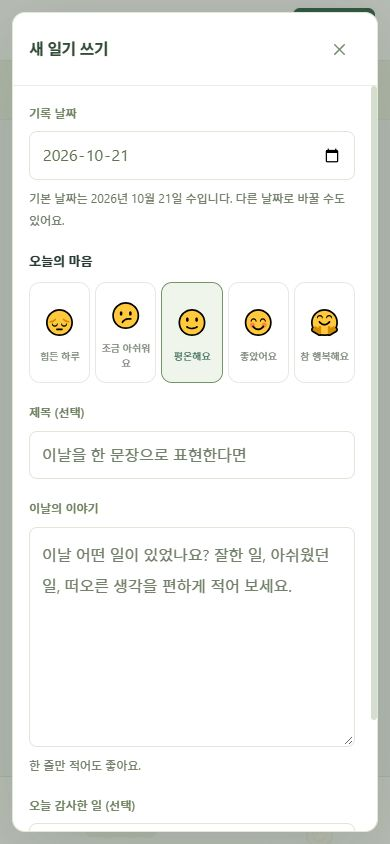
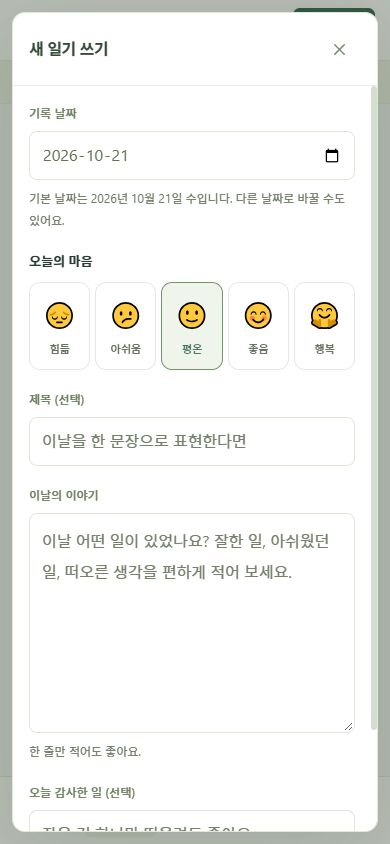
docs: finalize mobile label verification and release references

diff --git a/PROJECT_HANDOVER.md b/PROJECT_HANDOVER.md
@@ -2,7 +2,7 @@
 
 기준일: **2026-10-21 / Asia·Seoul**. 대상 작업 폴더: `E:\코덱스 프로젝트\라이프 오에스`.
 
-이 문서는 현재 로컬 소스, 제품 의도, 설계 결정, 검증 근거와 미완료 작업을 함께 인계합니다. **검증된 구현 소스 `4c6e111`을 기능 브랜치에 push했고, 별도 공개 테스트는 정적 `cc81539`로 갱신했습니다.** 상용 판매 준비·실제 iPhone 검증·기기 간 클라우드 동기화 완료를 선언하는 문서가 아닙니다.
+이 문서는 현재 로컬 소스, 제품 의도, 설계 결정, 검증 근거와 미완료 작업을 함께 인계합니다. **검증된 구현 소스 `078ebcc`을 기능 브랜치에 push했고, 별도 공개 테스트는 정적 `d0db06e`로 갱신했습니다.** 상용 판매 준비·실제 iPhone 검증·기기 간 클라우드 동기화 완료를 선언하는 문서가 아닙니다.
 
 처음 인계받았다면 [바로 시작하기](HANDOVER_START_HERE.md) → 이 문서 → [날짜별 작업 스냅샷](docs/HANDOVER_SNAPSHOT_2026-10-18.md)을 읽으세요. 오래된 문서와 충돌할 때 현재 코드와 이 날짜의 검증 범위를 우선합니다. 인증값, 실제 일기·금융·가족 정보, 금고 비밀번호는 인계 문서에 복제하지 않았습니다.
 
@@ -13,19 +13,19 @@
 | 구분             | 확인된 상태                                                                                                          |
 | ---------------- | -------------------------------------------------------------------------------------------------------------------- |
 | 개발 브랜치      | `codex/life-os-v2`                                                                                                   |
-| 검증된 구현 커밋 | `4c6e11164061b8a94fe70677ce1584fca4656cd6` — 후속 검증 문서 커밋과 구분                                              |
+| 검증된 구현 커밋 | `078ebccffb32d4f8a84d41923c65ee584f1a900b` — 후속 검증 문서 커밋과 구분                                              |
 | 최신 기능        | 사용성·입력·백업·모달·규칙 검사 개선을 커밋하고 원격 기능 브랜치에 반영                                              |
-| 원격 소스        | [pikurate-ai/life-os](https://github.com/pikurate-ai/life-os), `codex/life-os-v2`의 구현 기준 `4c6e111`              |
+| 원격 소스        | [pikurate-ai/life-os](https://github.com/pikurate-ai/life-os), `codex/life-os-v2`의 구현 기준 `078ebcc`              |
 | 검토 PR          | [초안 PR #1](https://github.com/pikurate-ai/life-os/pull/1). 최신 로컬 변경 반영 여부를 확인하고 갱신할 것           |
 | 기존 서비스      | [life-os](https://pikurate-ai.github.io/life-os/). 최신 v2 변경의 운영 배포가 확인된 주소가 아님                     |
-| 공개 테스트      | [life-os-preview](https://pikurate-ai.github.io/life-os-preview/), 소스 `4c6e111` / 정적 `cc81539`. 클라우드 OFF     |
+| 공개 테스트      | [life-os-preview](https://pikurate-ai.github.io/life-os-preview/), 소스 `078ebcc` / 정적 `d0db06e`. 클라우드 OFF     |
 | 최신 로컬 검사   | 포맷·타입·59개 자동 테스트·추가 CSV/일기/암호화 검사 통과. 별도 규칙 통합 9개 통과                                   |
 | 포맷 검사        | 기존 5개 서식 오류 정리 후 통과                                                                                      |
 | 최신 전체 빌드   | 일반·iPhone 테스트 정적 빌드 통과, 소스 CI와 공개 Pages/HTTPS 확인                                                   |
 | 실제 계정·동기화 | CLI 관리자 로그인 성공. 현재 계정의 프로젝트 목록 0개/기존 프로젝트 조회 실패. 앱 사용자 OAuth·두 기기 검증은 미완료 |
 | 사용성 평가      | 합성 시나리오 1–6 일부와 후속 7–10 주요 흐름 검사. 실제 사람 10명 평가가 아님                                        |
 
-**다른 PC에서는 master가 아닌 `codex/life-os-v2` 브랜치를 받으세요.** 검증된 구현 커밋은 `4c6e111`이며 이후에는 검증 문서 갱신 커밋이 있을 수 있습니다. 로컬 추가 변경이 있는지 Git 상태도 확인하세요. `.env.local`·개인 백업·원본 CSV·인증 토큰은 소스와 분리하고 사용자 데이터는 별도 앱 백업으로 옮깁니다.
+**다른 PC에서는 master가 아닌 `codex/life-os-v2` 브랜치를 받으세요.** 검증된 구현 커밋은 `078ebcc`이며 이후에는 검증 문서 갱신 커밋이 있을 수 있습니다. 로컬 추가 변경이 있는지 Git 상태도 확인하세요. `.env.local`·개인 백업·원본 CSV·인증 토큰은 소스와 분리하고 사용자 데이터는 별도 앱 백업으로 옮깁니다.
 
 ## 2. 제품의 목적과 사용자 맥락
 
@@ -335,7 +335,7 @@ Chromium 390×500 모의 화면에서 모달 366×476, 입력 폭 326px·글자 
 | [공개 테스트](https://pikurate-ai.github.io/life-os-preview/)   | 2026-10-21 기기 저장 테스트 빌드      |
 | [테스트 저장소](https://github.com/pikurate-ai/life-os-preview) | 소스 대신 `out/` 정적 파일 게시       |
 
-2026-10-21 공개 preview의 소스는 `4c6e111`, 정적 커밋은 `cc81539d471157d183865ae3dc18d2a13bc7c0b7`입니다. [Pages 실행 39502781234](https://github.com/pikurate-ai/life-os-preview/actions/runs/39502781234)의 build/deploy가 성공했고, 실제 HTTPS의 최신 HTML·리뷰·manifest·SW·설치 아이콘·스크립트/CSS를 확인했습니다. [소스 CI 실행 39502501547](https://github.com/pikurate-ai/life-os/actions/runs/39502501547)의 validate와 Firestore 규칙 job도 성공했습니다. 이전 `649b020`/`b408294` 배포는 2026-10-17 이력입니다.
+2026-10-21 공개 preview의 소스는 `078ebcc`, 정적 커밋은 `d0db06e1ffabe2593119bfa6d3e1c09207c78187`입니다. [Pages 실행 39504064724](https://github.com/pikurate-ai/life-os-preview/actions/runs/39504064724)의 build/deploy가 성공했고, 실제 HTTPS의 최신 HTML·리뷰·manifest·SW·설치 아이콘·스크립트/CSS를 확인했습니다. [소스 CI 실행 39503884788](https://github.com/pikurate-ai/life-os/actions/runs/39503884788)의 validate와 Firestore 규칙 job도 성공했습니다. 이전 `649b020`/`b408294` 배포는 2026-10-17 이력입니다.
 
 preview는 main/루트의 Pages 브랜치 배포, HTTPS 강제입니다. API의 build_type `legacy`는 Pages 설정 명칭이며 v1 앱 사용이라는 뜻이 아닙니다. `build:iphone`은 Firebase 웹 값을 비우고 앱에서도 강제로 클라우드를 끕니다. **이 명령으로 PC·iPhone 동기화 출시를 시도하면 안 됩니다.** 실제 클라우드 검증에는 Firebase가 켜진 별도 빌드가 필요합니다.
 
@@ -405,7 +405,7 @@ docs/HANDOVER_SNAPSHOT_2026-10-18.md, docs/PRODUCT_BRIEF.md,
 docs/ARCHITECTURE.md, docs/DESIGN_SYSTEM.md, docs/DEPLOYMENT.md,
 AGENTS.md를 먼저 읽으세요.
 
-검증된 구현은 codex/life-os-v2의 4c6e111로 원격에 반영됐습니다.
+검증된 구현은 codex/life-os-v2의 078ebcc로 원격에 반영됐습니다.
 최신 문서 커밋·로컬 변경과 master를 구분해 확인하세요.
 목표는 개인의 일상 기록·검색·회복을 돕는 상용 수준의 차분한 Life OS입니다.
 현재 v2 모듈과 디자인 토큰을 사용하고 demo/guest/UID를 분리하세요.
@@ -415,7 +415,7 @@ AGENTS.md를 먼저 읽으세요.
 포맷·타입·59개 테스트·규칙 9개와 일반 빌드는 통과했습니다.
 최신 검증 문서를 읽고 남은 금고 CSV·백업 다운로드·실제 iPhone 검사를 진행하세요.
 그 다음 실제 OAuth·권한 규칙·두 기기 동기화·최신 공개 배포를 완성하세요.
-preview는 cloud-off이고 소스 4c6e111 / 정적 cc81539 기준임을 유의하세요.
+preview는 cloud-off이고 소스 078ebcc / 정적 d0db06e 기준임을 유의하세요.
 실제 사람 10명 평가나 실제 기기 검증을 합성 검사로 대체해 완료라 표현하지 마세요.
 기록 보존을 우선하며 구현·검증·배포 상태를 각각 근거와 함께 갱신하세요.
 ```

diff --git a/docs/DEPLOYMENT.md b/docs/DEPLOYMENT.md
@@ -2,7 +2,7 @@
 
 ## 2026-10-21 재개 결과
 
-**공개 테스트 갱신 완료:** 소스 `4c6e111` / 정적 `cc81539d471157d183865ae3dc18d2a13bc7c0b7`. [소스 CI](https://github.com/pikurate-ai/life-os/actions/runs/39502501547)와 [Pages](https://github.com/pikurate-ai/life-os-preview/actions/runs/39502781234)가 성공했습니다. [테스트 앱](https://pikurate-ai.github.io/life-os-preview/)의 최신 HTML·리뷰·manifest·SW·설치 아이콘·스크립트/CSS와 390px 일기 입력을 확인했습니다. 자세한 측정은 [최신 QA](QA_2026-10-21.md)에 있습니다. 기존 master 서비스·DB·규칙은 변경하지 않았고 cloud-off 정책을 유지합니다.
+**공개 테스트 갱신 완료:** 소스 `078ebcc` / 정적 `d0db06e1ffabe2593119bfa6d3e1c09207c78187`. [소스 CI](https://github.com/pikurate-ai/life-os/actions/runs/39503884788)와 [Pages](https://github.com/pikurate-ai/life-os-preview/actions/runs/39504064724)가 성공했습니다. [테스트 앱](https://pikurate-ai.github.io/life-os-preview/)의 최신 HTML·리뷰·manifest·SW·설치 아이콘·스크립트/CSS와 390px 일기 입력을 확인했습니다. 자세한 측정은 [최신 QA](QA_2026-10-21.md)에 있습니다. 기존 master 서비스·DB·규칙은 변경하지 않았고 cloud-off 정책을 유지합니다.
 
 포맷·타입·59개 일반 테스트·9개 전용 규칙 검사·일반 빌드가 통과했습니다. `test:rules` 누락을 해결했고 CI는 Temurin Java 21을 준비합니다. 로컬에서는 체크섬을 확인한 portable Java를 `.tools`에만 준비했습니다. 실제 운영 규칙은 배포하지 않았습니다. [최신 검증](QA_2026-10-21.md)에 구체적인 근거가 있습니다.
 

diff --git a/README.md b/README.md
@@ -10,7 +10,7 @@ Next.js App Router, React, TypeScript, 공통 디자인 토큰과 Firebase Auth 
 
 ## iPhone에서 테스트하기
 
-**[Life OS 테스트 열기](https://pikurate-ai.github.io/life-os-preview/)** — 2026-10-21 소스 `4c6e111`/정적 `cc81539`로 [테스트 저장소](https://github.com/pikurate-ai/life-os-preview)의 GitHub Pages를 갱신하고 실제 HTTPS·모바일 일기 화면을 확인했습니다. 기존 `/life-os/` 서비스는 변경하지 않았습니다. iPhone에서는 Safari로 열어 **공유 → 홈 화면에 추가**를 선택하세요.
+**[Life OS 테스트 열기](https://pikurate-ai.github.io/life-os-preview/)** — 2026-10-21 소스 `078ebcc`/정적 `d0db06e`로 [테스트 저장소](https://github.com/pikurate-ai/life-os-preview)의 GitHub Pages를 갱신하고 실제 HTTPS·모바일 일기 화면을 확인했습니다. 기존 `/life-os/` 서비스는 변경하지 않았습니다. iPhone에서는 Safari로 열어 **공유 → 홈 화면에 추가**를 선택하세요.
 
 테스트 빌드는 클라우드를 강제로 비활성화합니다. 예시 화면, 이 기기의 개인 기록, JSON 백업을 확인하는 범위이며 Google 로그인이나 PC·iPhone 자동 동기화는 제공하지 않습니다. Safari의 홈 화면에 추가하는 PWA로 준비했으며, 실제 iPhone 13 Pro에서의 설치·사용 검증은 별도입니다. [아이폰 테스트 절차](docs/IPHONE_TEST_GUIDE.md)를 참고하세요.
 

diff --git a/docs/IPHONE_TEST_GUIDE.md b/docs/IPHONE_TEST_GUIDE.md
@@ -1,6 +1,6 @@
 # iPhone 13 Pro에서 Life OS 테스트하기
 
-**[Life OS 테스트 버전 열기](https://pikurate-ai.github.io/life-os-preview/)** — 2026-10-21 모바일 입력·백업 개선본으로 갱신했습니다. 소스 `4c6e111`, 정적 `cc81539`의 배포 성공과 실제 HTTPS 접속을 확인했습니다. 기존 Life OS 서비스와 별도의 테스트 사이트이며, 기존 master 서비스는 변경하지 않았습니다.
+**[Life OS 테스트 버전 열기](https://pikurate-ai.github.io/life-os-preview/)** — 2026-10-21 모바일 입력·백업 개선본으로 갱신했습니다. 소스 `078ebcc`, 정적 `d0db06e`의 배포 성공과 실제 HTTPS 접속을 확인했습니다. 기존 Life OS 서비스와 별도의 테스트 사이트이며, 기존 master 서비스는 변경하지 않았습니다.
 
 이전 일기 입력창 이탈 제보에 대해 폭·날짜 입력·모달 스크롤을 보완했습니다. 공개 Chromium 390px에서 모달 366px·입력 글자 16px·가로 넘침 없음을 확인했습니다. 아이폰에서는 **새 일기 쓰기 → 날짜 선택 → 본문 입력으로 키보드 열기 → 내부 스크롤 → 저장**을 특히 확인해 주세요. 실제 Safari 결과를 모의 화면 검사와 구분합니다. [최신 검증](QA_2026-10-21.md)에 근거를 남겼습니다.
 
